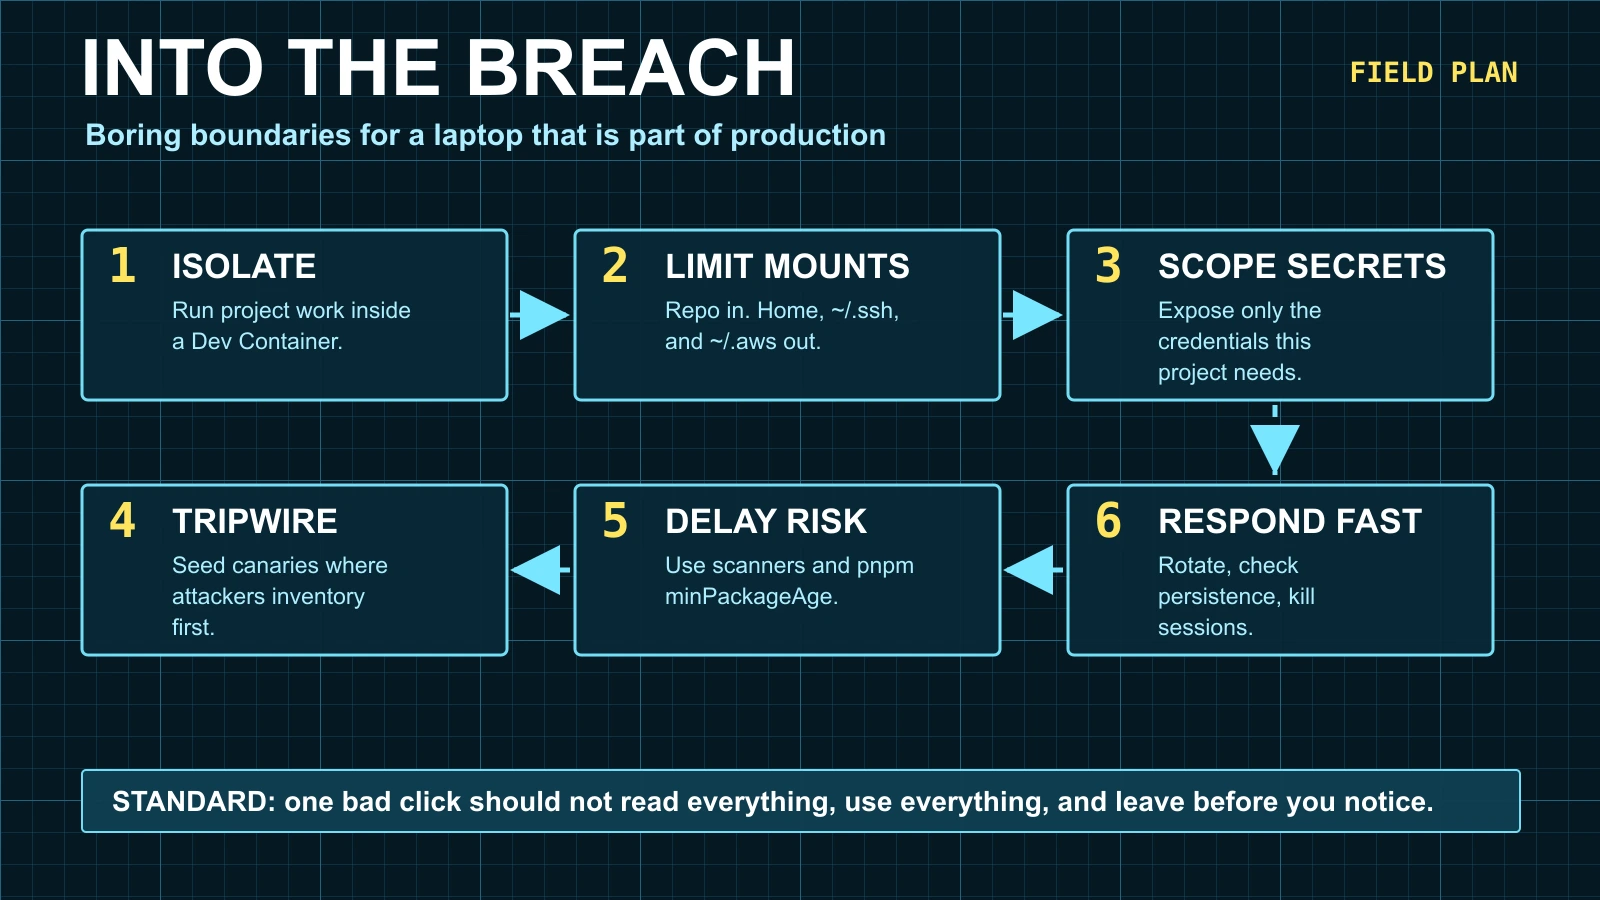
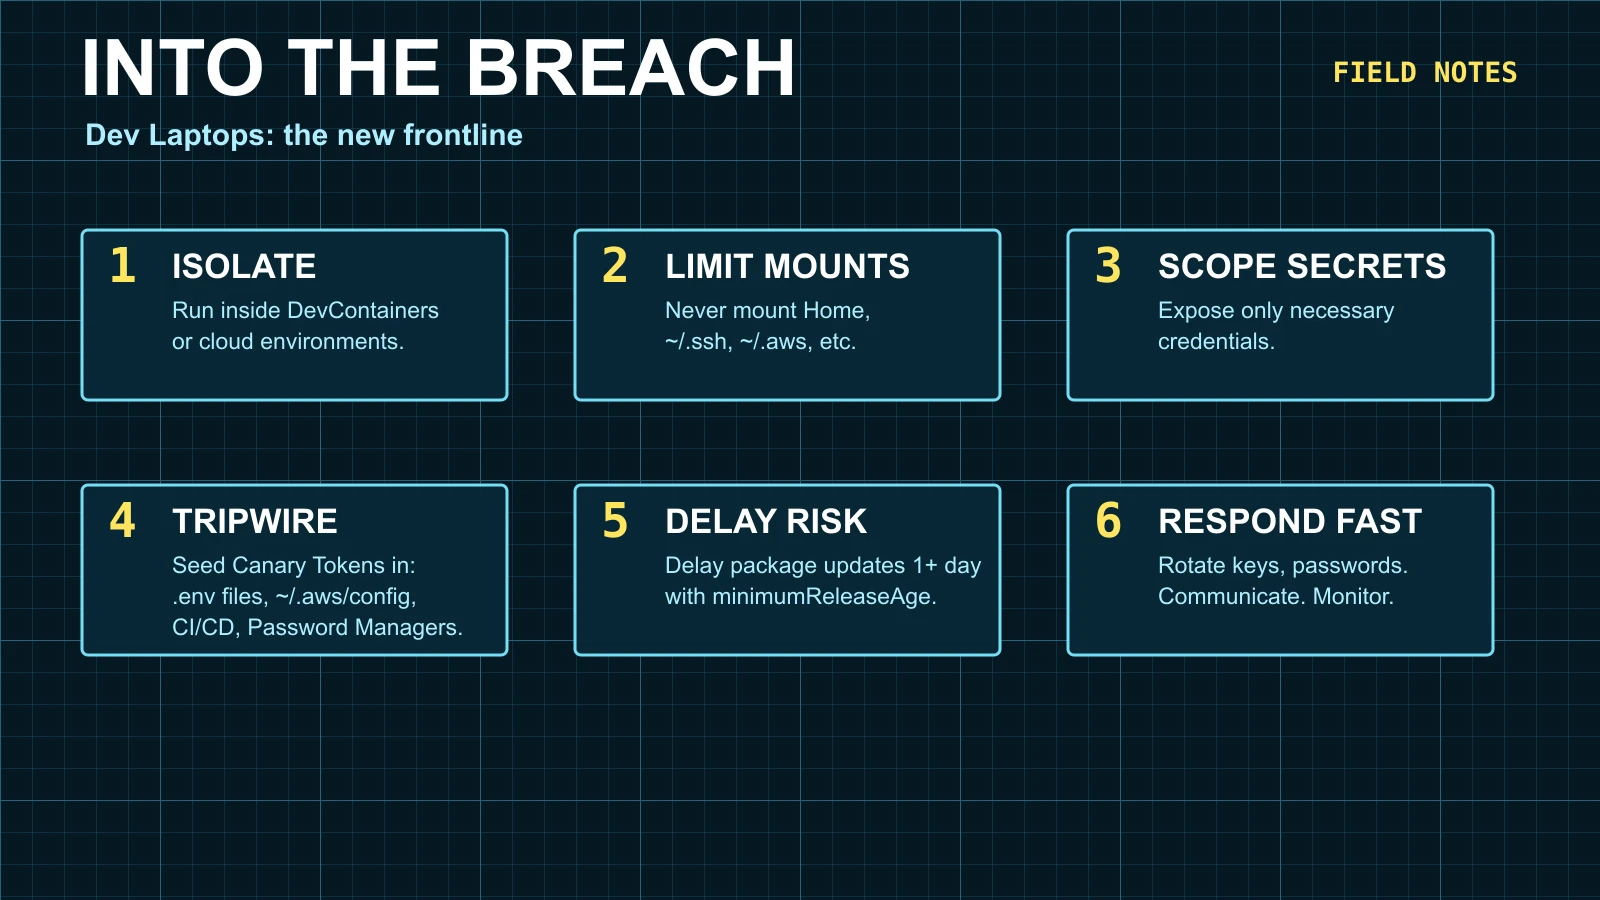
Update Langfuse API documentation and examples
- Updated API endpoints in SKILL.md to reflect the latest versioning and paths.
- Added a comprehensive endpoint catalog from the OpenAPI spec.
- Enhanced prompt and score creation examples with cURL and TypeScript snippets.
- Revised references in current-docs.md to align with updated API paths.
- Removed outdated notes on fast-moving claims from AGENTS.md.
- Corrected translations and terminology in multiple language versions of the breach article.
- Updated infographic text in SVG files to reflect changes in minimum package age settings.

diff --git a/.agents/skills/langfuse/SKILL.md b/.agents/skills/langfuse/SKILL.md
@@ -185,13 +185,135 @@ Always verify request/response shapes in the current API reference before implem
 | Task | Method/path | Notes |
 | --- | --- | --- |
 | Create prompt version | `POST /api/public/v2/prompts` | Supports text and chat prompts; prompt variables use `{{variable}}` templates. |
-| List/fetch datasets | `GET /api/public/datasets` | Paginated list of dataset metadata. |
-| Create/update dataset | `POST /api/public/datasets` | Use stable names and metadata for eval suites. |
+| List/fetch datasets | `GET /api/public/v2/datasets` | Paginated list of dataset metadata. |
+| Create dataset | `POST /api/public/v2/datasets` | Use stable names and metadata for eval suites. |
 | Create/upsert item | `POST /api/public/dataset-items` | Include dataset name, input, expected output, metadata, and optional source trace/observation IDs. |
 | Record score/eval result | `POST /api/public/scores` | Attach `NUMERIC`, `BOOLEAN`, `CATEGORICAL`, or text-like scores to traces/observations when supported by current API. |
 | Inspect traces | `GET /api/public/traces`, `GET /api/public/traces/:traceId` | Use for exports, regression triage, or eval dataset mining. |
 | Inspect observations | `GET /api/public/observations/:observationId` | Use for detailed generation/tool-call debugging. |
 | Manage annotation queues | `GET/POST /api/public/annotation-queues` | Useful for human review workflows tied to score configs. |
+
+Endpoint catalog from the official OpenAPI spec, last checked 2026-05-19:
+
+```text
+Annotation queues
+GET    /api/public/annotation-queues
+POST   /api/public/annotation-queues
+GET    /api/public/annotation-queues/{queueId}
+POST   /api/public/annotation-queues/{queueId}/assignments
+DELETE /api/public/annotation-queues/{queueId}/assignments
+GET    /api/public/annotation-queues/{queueId}/items
+POST   /api/public/annotation-queues/{queueId}/items
+GET    /api/public/annotation-queues/{queueId}/items/{itemId}
+PATCH  /api/public/annotation-queues/{queueId}/items/{itemId}
+DELETE /api/public/annotation-queues/{queueId}/items/{itemId}
+
+Comments
+GET    /api/public/comments
+POST   /api/public/comments
+GET    /api/public/comments/{commentId}
+
+Datasets
+GET    /api/public/v2/datasets
+POST   /api/public/v2/datasets
+GET    /api/public/v2/datasets/{datasetName}
+GET    /api/public/dataset-items
+POST   /api/public/dataset-items
+GET    /api/public/dataset-items/{id}
+DELETE /api/public/dataset-items/{id}
+GET    /api/public/dataset-run-items
+POST   /api/public/dataset-run-items
+GET    /api/public/datasets/{datasetName}/runs
+GET    /api/public/datasets/{datasetName}/runs/{runName}
+DELETE /api/public/datasets/{datasetName}/runs/{runName}
+
+Health and ingestion
+GET    /api/public/health
+POST   /api/public/ingestion
+POST   /api/public/otel/v1/traces
+
+Integrations and media
+GET    /api/public/integrations/blob-storage
+PUT    /api/public/integrations/blob-storage
+GET    /api/public/integrations/blob-storage/{id}
+DELETE /api/public/integrations/blob-storage/{id}
+GET    /api/public/llm-connections
+PUT    /api/public/llm-connections
+DELETE /api/public/llm-connections/{id}
+POST   /api/public/media
+GET    /api/public/media/{mediaId}
+PATCH  /api/public/media/{mediaId}
+
+Metrics, observations, traces, and sessions
+GET    /api/public/metrics
+GET    /api/public/v2/metrics
+GET    /api/public/observations
+GET    /api/public/observations/{observationId}
+GET    /api/public/v2/observations
+GET    /api/public/traces
+DELETE /api/public/traces
+GET    /api/public/traces/{traceId}
+DELETE /api/public/traces/{traceId}
+GET    /api/public/sessions
+GET    /api/public/sessions/{sessionId}
+
+Models
+GET    /api/public/models
+POST   /api/public/models
+GET    /api/public/models/{id}
+DELETE /api/public/models/{id}
+
+Organization, project, and SCIM APIs
+GET    /api/public/organizations/apiKeys
+GET    /api/public/organizations/memberships
+PUT    /api/public/organizations/memberships
+DELETE /api/public/organizations/memberships
+GET    /api/public/organizations/projects
+GET    /api/public/projects
+POST   /api/public/projects
+PUT    /api/public/projects/{projectId}
+DELETE /api/public/projects/{projectId}
+GET    /api/public/projects/{projectId}/apiKeys
+POST   /api/public/projects/{projectId}/apiKeys
+DELETE /api/public/projects/{projectId}/apiKeys/{apiKeyId}
+GET    /api/public/projects/{projectId}/memberships
+PUT    /api/public/projects/{projectId}/memberships
+DELETE /api/public/projects/{projectId}/memberships
+GET    /api/public/scim/ResourceTypes
+GET    /api/public/scim/Schemas
+GET    /api/public/scim/ServiceProviderConfig
+GET    /api/public/scim/Users
+POST   /api/public/scim/Users
+GET    /api/public/scim/Users/{userId}
+DELETE /api/public/scim/Users/{userId}
+
+Prompts
+GET    /api/public/v2/prompts
+POST   /api/public/v2/prompts
+GET    /api/public/v2/prompts/{promptName}
+DELETE /api/public/v2/prompts/{promptName}
+PATCH  /api/public/v2/prompts/{name}/versions/{version}
+
+Scores and score configs
+POST   /api/public/scores
+DELETE /api/public/scores/{scoreId}
+GET    /api/public/v2/scores
+GET    /api/public/v2/scores/{scoreId}
+GET    /api/public/score-configs
+POST   /api/public/score-configs
+GET    /api/public/score-configs/{configId}
+PATCH  /api/public/score-configs/{configId}
+
+Unstable evaluators and evaluation rules
+GET    /api/public/unstable/evaluators
+POST   /api/public/unstable/evaluators
+GET    /api/public/unstable/evaluators/{evaluatorId}
+GET    /api/public/unstable/evaluation-rules
+POST   /api/public/unstable/evaluation-rules
+GET    /api/public/unstable/evaluation-rules/{evaluationRuleId}
+PATCH  /api/public/unstable/evaluation-rules/{evaluationRuleId}
+DELETE /api/public/unstable/evaluation-rules/{evaluationRuleId}
+```
 
 Minimal REST helper pattern:
 
@@ -220,7 +342,26 @@ export async function langfuseApi<T>(path: string, init: RequestInit = {}): Prom
 }
 ```
 
-Prompt creation example:
+Prompt creation cURL example:
+
+```bash
+curl -X POST "${LANGFUSE_BASE_URL:-https://cloud.langfuse.com}/api/public/v2/prompts" \
+  -u "$LANGFUSE_PUBLIC_KEY:$LANGFUSE_SECRET_KEY" \
+  -H "Content-Type: application/json" \
+  -d '{
+    "type": "chat",
+    "name": "translation-candidate",
+    "prompt": [
+      { "role": "system", "content": "Translate to {{locale}} while preserving MDX." },
+      { "role": "user", "content": "{{source}}" }
+    ],
+    "labels": ["staging"],
+    "tags": ["i18n"],
+    "commitMessage": "Add staging translation candidate prompt"
+  }'
+```
+
+Prompt creation TypeScript example:
 
 ```ts
 await langfuseApi("/api/public/v2/prompts", {
@@ -239,7 +380,22 @@ await langfuseApi("/api/public/v2/prompts", {
 });
 ```
 
-Score creation example:
+Score creation cURL example:
+
+```bash
+curl -X POST "${LANGFUSE_BASE_URL:-https://cloud.langfuse.com}/api/public/scores" \
+  -u "$LANGFUSE_PUBLIC_KEY:$LANGFUSE_SECRET_KEY" \
+  -H "Content-Type: application/json" \
+  -d '{
+    "traceId": "trace_id_here",
+    "name": "mdx-valid",
+    "value": 1,
+    "dataType": "NUMERIC",
+    "comment": "MDX parsed successfully"
+  }'
+```
+
+Score creation TypeScript example:
 
 ```ts
 await langfuseApi("/api/public/scores", {

diff --git a/.agents/skills/langfuse/references/current-docs.md b/.agents/skills/langfuse/references/current-docs.md
@@ -130,24 +130,29 @@ curl -X POST "https://cloud.langfuse.com/api/public/v2/prompts" \
 Common public API paths to verify against the live API reference before implementation:
 
 - `POST /api/public/v2/prompts` for prompt versions.
-- `GET /api/public/datasets` and `POST /api/public/datasets` for datasets.
+- `GET /api/public/v2/datasets` and `POST /api/public/v2/datasets` for datasets.
 - `POST /api/public/dataset-items` for dataset items/upserts.
 - `POST /api/public/scores` for numeric/boolean/categorical eval scores attached to traces or observations.
 - `GET /api/public/traces` and `GET /api/public/traces/:traceId` for trace inspection/export.
 - `GET /api/public/observations/:observationId` for observation inspection.
 - `GET /api/public/annotation-queues` and `POST /api/public/annotation-queues` for human review queues.
 
-Score creation currently includes fields like:
+The main skill file includes a full endpoint catalog generated from the official OpenAPI `paths` list.
 
-```json
-{
-  "traceId": "trace_id_here",
-  "observationId": "observation_id_here",
-  "name": "correctness",
-  "value": 0.9,
-  "dataType": "NUMERIC",
-  "comment": "Factually correct"
-}
+Score creation currently uses `POST /api/public/scores` with fields like:
+
+```bash
+curl -X POST "https://cloud.langfuse.com/api/public/scores" \
+  -u "your-public-key:your-secret-key" \
+  -H "Content-Type: application/json" \
+  -d '{
+    "traceId": "trace_id_here",
+    "observationId": "observation_id_here",
+    "name": "correctness",
+    "value": 0.9,
+    "dataType": "NUMERIC",
+    "comment": "Factually correct"
+  }'
 ```
 
 List endpoints usually paginate with `page` and `limit`, returning `data` and `meta`. Do not assume an endpoint returns all rows in one response.

diff --git a/AGENTS.md b/AGENTS.md
@@ -253,7 +253,6 @@ playwright.config.ts         # E2E tests
 - **Hero media** - Add useful `cover_credit` when a post has credited hero imagery
 - **Subtitles** - Post subtitles render as paragraph/dek text, not heading levels
 - **Lists** - Preserve native ordered-list semantics in markdown and CSS; do not restyle `ol` into generic block/list-item wrappers
-- **Fast-moving claims** - Add a short "Last verified" note for claims about prices, limits, model capabilities, vendors, benchmarks, or tool availability
 - **Security prose** - Avoid absolute guarantees. Prefer defense-in-depth wording: "reduces risk", "makes exploitation harder", "limits blast radius"
 - **Legacy posts** - Do not hide old routable posts just because they are dated. Add historical framing and keep redirects/routes stable
 